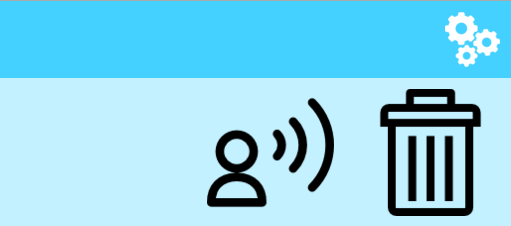
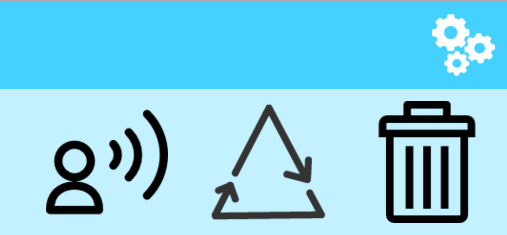
Updated images and text on guides page to discuss new replay button.

Changed region(s): [[0.0, 0.031, 1.0, 0.9602], [0.3846, 0.4336, 0.6805, 0.9602], [0.0888, 0.4646, 0.355, 0.9292]]

diff --git a/Main/Guides.php b/Main/Guides.php
@@ -41,9 +41,9 @@
 		<p>The area below the navigation bar is the speech bar. Providing that the application is set to <i>Push to Talk</i>, each selected word will appear in this location to create a phrase. More information will be provided on configuration later in this guide.</p><br>
 		<img class="img-responsive" src="../images/nav_bar_example.png" alt="Navigation Bar"/><hr><hr>
 
-<h3>Speech Command, Deletion and Settings</h3>
+<h3>Speech Command, Replay, Deletion and Settings</h3>
 
-		<p>Towards the top right of the speech application page, you can see three icons. The topmost Cog icon provides access to the application settings, which will be discussed at a later point. Below this, two icons can be seen. The bin icon can be used to clear the speech bar of words, whilst the speech icon will speak the current phrase.<p><br>
+		<p>Towards the top right of the speech application page, you can see four icons. The topmost Cog icon provides access to the application settings, which will be discussed at a later point. Below this, three icons can be seen. The bin icon can be used to clear the speech bar of words, the speech icon will speak the current phrase, and the repeat icon can be used to repeat the previously spoken word or phrase.<p><br>
 		<img class="img-responsive" src="../images/speech_button_example.png" alt="Speech Area"/><hr><hr>
 
 		<h3>Word Bank</h3>
